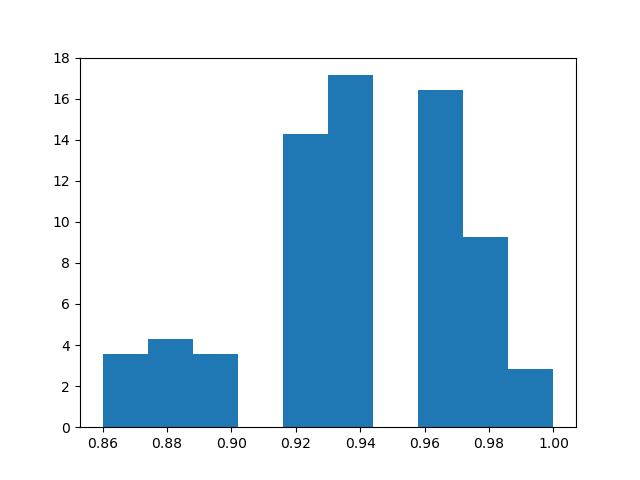
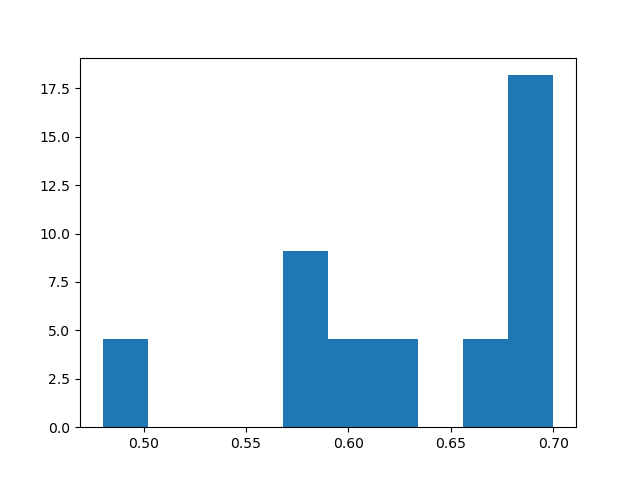
gym environment

diff --git a/src/rlnoise/envs/gym_env.py b/src/rlnoise/envs/gym_env.py
@@ -1,0 +1,126 @@
+import numpy as np
+import gymnasium as gym
+from gymnasium import spaces
+from qibo import gates
+from qibo.models import Circuit
+from copy import deepcopy
+
+
+class CircuitsGym(gym.Env):
+
+    def __init__(self, circuits_repr, labels,):
+
+        self.actions=(0,1)
+        self.labels=labels
+        self.len = len(circuits_repr[0])
+        self.shape = np.shape(circuits_repr[0])
+        self.circuits_repr = circuits_repr
+
+        self.observation_space = spaces.Box(low=0, high=1, shape=(self.len, 4), dtype=float)
+        self.action_space = spaces.Discrete(2)
+
+    def reset(self, seed=42, verbose=False):
+
+        super().reset(seed=seed)
+        self.position = 0
+        self.last_action = None
+        self.sample = np.random.randint(low=0, high=len(self.circuits_repr))
+        self.circuit = self.circuits_repr[self.sample]
+        self.noisy_channels = np.zeros((self.len))
+        self.observation_space = np.zeros((self.len, 4), dtype=np.float32)
+        self.observation_space[:,0:2] = self.circuit
+        if verbose:
+            print("EPISODE STARTED")
+            self._get_info()
+        return self._get_obs()
+
+    def step(self, action, verbose=False):
+        self.last_action=action
+        if action == 1:
+            self.noisy_channels[self.position]=1.
+        # Check for termination.
+        if self.position == (self.len-1):
+            # Compute reward
+            reward = self.compute_reward(self.labels[self.sample], n_shots=100)
+            observation=self._get_obs()
+            if verbose:
+                self._get_info(last_step=True)
+                print("REWARD: ", reward)
+            return observation, reward, True
+        else:
+            reward=0
+            self.position+=1
+            observation=self._get_obs()
+            if verbose:
+                self._get_info()
+            return observation, reward, False
+    
+    def _get_obs(self):
+
+        self.observation_space[:,3].fill(0.)
+        self.observation_space[self.position,3] = 1.
+        self.observation_space[:,2] = self.noisy_channels
+        return self.observation_space.copy()
+
+    def _get_info(self, last_step=False):
+        print("Circuit number: ", self.sample)
+        if last_step:
+            print("EPISODE ENDED")
+        else:
+            print("Action number: ", self.position)
+        print("Last action: ", self.last_action)
+        print("Observation:")
+        print(self._get_obs())
+
+    """---------------------------------------"""
+    """--------COMPUTE REWARD-----------------"""
+    """---------------------------------------"""    
+
+    def compute_reward(self, label, n_shots=100):
+        reward=0.
+        generated_circuit = self.generate_circuit()
+        observables = np.ndarray((3,2), dtype=float)
+        index=0
+        for obs in ["Z", "Y", "X"]:
+            moments=self.pauli_probabilities(generated_circuit, obs, n_shots=n_shots)
+            observables[index, :]=moments
+            index+=1
+        # Compute 1/MSE(obtained Mean, Real Mean)+1/(n_shots*MSE(obtained Var, Real Var))
+        for i in range(3):
+            reward+=(1/(observables[i,0]-label[i,0])**2+1/(n_shots*(observables[i,0]-label[i,0])**2))
+        return reward
+
+    def generate_circuit(self, dep_error=0.05):
+      qibo_circuit = Circuit(1, density_matrix=True)
+      for i in range(self.len):
+        if self.circuit[i,0]==0:
+          qibo_circuit.add(gates.RZ(0, theta=self.circuit[i,1]*2*np.pi, trainable=False))
+        else:
+          qibo_circuit.add(gates.RX(0, theta=self.circuit[i,1]*2*np.pi, trainable=False))
+        if self.noisy_channels[i]==1:
+          qibo_circuit.add(gates.DepolarizingChannel((0,), lam=dep_error))
+      return qibo_circuit
+
+    def pauli_probabilities(self, circuit, observable, n_shots=100, n_rounds=100):
+        measured_circuit = deepcopy(circuit)
+        self.add_masurement_gates(measured_circuit, observable=observable)
+        register=np.ndarray((n_rounds,), dtype=float)
+        moments=np.ndarray((2,), dtype=float)
+        for i in range(n_rounds):
+            probs=self.compute_shots(measured_circuit, n_shots=n_shots)
+            register[i]=probs[0]-probs[1]
+        moments[0]=np.mean(register)
+        moments[1]=np.var(register)
+        return moments
+
+    def add_masurement_gates(self, circuit, observable):
+        if observable=='X' or observable=='Y':
+            circuit.add(gates.H(0))
+        if observable=='Y':
+            circuit.add(gates.SDG(0))
+        circuit.add(gates.M(0))
+        
+    def compute_shots(self, circuit, n_shots=1024):
+        shots_register_raw = circuit(nshots=n_shots).frequencies(binary=False)
+        shots_register=tuple(int(shots_register_raw[key]) for key in range(2))
+        return np.asarray(shots_register, dtype=float)/float(n_shots)

diff --git a/src/rlnoise/tests/test_dataset.py b/src/rlnoise/tests/test_dataset.py
@@ -1,9 +1,9 @@
-from dataset import Dataset
+from rlnoise.dataset import Dataset, dataset_folder, figures_folder
 import numpy as np
 import matplotlib.pyplot as plt
 
 nqubits = 1
-ngates = 5
+ngates = 2
 ncirc = 1
 val_split=0.2
 
@@ -26,37 +26,39 @@ for c in dataset.get_noisy_circuits():
 
 print('-------------------------------------')
 print('Z observable')
-z=dataset.pauli_probabilities(observable='Z', n_shots=100, n_rounds=500)
+z=dataset.pauli_probabilities(observable='Z', n_shots=100, n_rounds=10)
 plt.hist(z[0], density=True)
-plt.savefig('figures/z_obs.png')
+
+plt.savefig(figures_folder() + '/z_obs.png')
 plt.close()
 
-print('-------------------------------------')
-print('Y observable')
-y=dataset.pauli_probabilities(observable='Y', n_shots=100, n_rounds=500)
-plt.hist(y[0], density=True)
-plt.savefig('figures/y_obs.png')
-plt.close()
-
-print('-------------------------------------')
-print('X observable')
-x=dataset.pauli_probabilities(observable='X', n_shots=100, n_rounds=500)
-plt.hist(x[0], density=True)
-plt.savefig('figures/x_obs.png')
-plt.close()
-
-'''
-print('-------------------------------------')
-print('Shots')
-shots=dataset.noisy_shots(n_shots=2048, probabilities=True)
-print(shots)
-np.save('data/noisy_shots_1q.npy', repr)
 
 print('-------------------------------------')
 print('Representation')
 repr=dataset.generate_dataset_representation()
 print(repr.shape)
-np.save('data/circuits_repr_1q.npy', repr)
+np.save(dataset_folder() + '/test.npy', repr)
+
+'''
+print('-------------------------------------')
+print('Y observable')
+y=dataset.pauli_probabilities(observable='Y', n_shots=100, n_rounds=10)
+plt.hist(y[0], density=True)
+plt.savefig(figures_folder() + '/y_obs.png')
+plt.close()
+
+print('-------------------------------------')
+print('X observable')
+x=dataset.pauli_probabilities(observable='X', n_shots=100, n_rounds=10)
+plt.hist(x[0], density=True)
+plt.savefig(figures_folder()+ '/x_obs.png')
+plt.close()
+
+print('-------------------------------------')
+print('Shots')
+shots=dataset.noisy_shots(n_shots=2048, probabilities=True)
+print(shots)
+np.save('data/noisy_shots_1q.npy', repr)
 
 dataset.train_val_split()
 print('> Training Circuits')
@@ -65,7 +67,6 @@ for c in dataset.get_train_loader():
 print('> Validation Circuits')
 for c in dataset.get_val_loader():
     print(c.draw())
-
 
 print('Saving Circuits to dataset.json')
 dataset.save_circuits('data/dataset1q.json')

diff --git a/setup.py b/setup.py
@@ -1,0 +1,39 @@
+import os
+import re
+from setuptools import find_packages, setup
+
+PACKAGE = "rlnoise"
+
+# Returns the qibo version
+def get_version():
+    VERSIONFILE = os.path.join("src", PACKAGE, "__init__.py")
+    initfile_lines = open(VERSIONFILE).readlines()
+    VSRE = r"^__version__ = ['\"]([^'\"]*)['\"]"
+    for line in initfile_lines:
+        mo = re.search(VSRE, line, re.M)
+        if mo:
+            return mo.group(1)
+
+setup(
+    name="rlnoise",
+    version=get_version(),
+    description="Quantum noise modelling with reinforcement learning.",
+    author="Simone Bordoni, Andrea Papaluca, Andrea Cacioppo, Alejandro Sopena",
+    author_email="",
+    url="https://github.com/qiboteam/rl-noisemodel",
+    packages=find_packages("src"),
+    package_dir={"": "src"},
+    package_data={"": ["*.out", "*.yml"]},
+    include_package_data=True,
+    zip_safe=False,
+    classifiers=[
+        "Programming Language :: Python :: 3",
+        "Topic :: Scientific/Engineering :: Physics",
+    ],
+    install_requires=[
+        "matplotlib",
+        "numpy",
+        "gymnasium",
+    ],
+    python_requires=">=3.7.0",
+)

diff --git a/src/rlnoise/tests/test_gym_env.py b/src/rlnoise/tests/test_gym_env.py
@@ -1,0 +1,30 @@
+from rlnoise.dataset import Dataset
+import numpy as np
+from rlnoise.envs.gym_env import CircuitsGym
+
+nqubits = 1
+ngates = 5
+ncirc = 1
+val_split=0.2
+
+# create dataset
+dataset = Dataset(
+    n_circuits=ncirc,
+    n_gates=ngates,
+    n_qubits=nqubits,
+)
+
+print('Circuits')
+for c in dataset.get_circuits():
+    print(c.draw())
+circuits_repr=dataset.generate_dataset_representation()
+dataset.add_noise(noise_params=0.05)
+labels=dataset.generate_labels()
+print(labels)
+
+
+circuit_env=CircuitsGym(circuits_repr, labels)
+circuit_env.reset(verbose=True)
+for _ in range(ngates):
+    action=np.random.randint(0,2)
+    circuit_env.step(action, verbose=True)

diff --git a/src/rlnoise/tests/test_acme_env.py b/src/rlnoise/tests/test_acme_env.py
@@ -1,7 +1,6 @@
-from dataset import Dataset
+from rlnoise.dataset import Dataset
 import numpy as np
-from acme_env import CircuitsEnv
-import matplotlib.pyplot as plt
+from rlnoise.envs.acme_env import CircuitsAcme
 
 nqubits = 1
 ngates = 5
@@ -24,7 +23,7 @@ labels=dataset.generate_labels()
 print(labels)
 
 
-circuit_env=CircuitsEnv(circuits_repr, labels)
+circuit_env=CircuitsAcme(circuits_repr, labels)
 circuit_env.reset()
 for _ in range(ngates):
     action=np.random.randint(0,2)
@@ -32,4 +31,4 @@ for _ in range(ngates):
     circuit_env.get_info()
 
 reward=circuit_env.compute_reward(labels[0])
-print(reward)
+print("REWARD: ", reward)

diff --git a/src/rlnoise/dataset.py b/src/rlnoise/dataset.py
@@ -4,7 +4,16 @@ from qibo import gates
 from qibo.backends import NumpyBackend
 from qibo.models import Circuit
 from copy import deepcopy
+import os
 
+def dataset_folder():
+    folder = os.path.join(os.getcwd(), "dataset")
+    return folder
+
+def figures_folder():
+    print(os.getcwd())
+    folder = os.path.join(os.getcwd(), "figures")
+    return folder
 
 class Dataset(object):
 

diff --git a/src/rlnoise/envs/acme_env.py b/src/rlnoise/envs/acme_env.py
@@ -6,7 +6,7 @@ from qibo.models import Circuit
 from copy import deepcopy
 
 
-class CircuitsEnv(dm_env.Environment):
+class CircuitsAcme(dm_env.Environment):
 
     def __init__(self, circuits_repr, labels):
         self.actions=(0,1)

diff --git a/src/rlnoise/envs/__init__.py b/src/rlnoise/envs/__init__.py
@@ -1,0 +1,2 @@
+from rlnoise.envs.acme_env import CircuitsAcme
+from rlnoise.envs.gym_env import CircuitsGym

diff --git a/src/rlnoise/__init__.py b/src/rlnoise/__init__.py
@@ -1,0 +1,1 @@
+__version__ = "0.0.1"

diff --git a/README.md b/README.md
@@ -1,1 +1,1 @@
-# rl-noisemodel
+### Noise modeling with reinforcement learning
